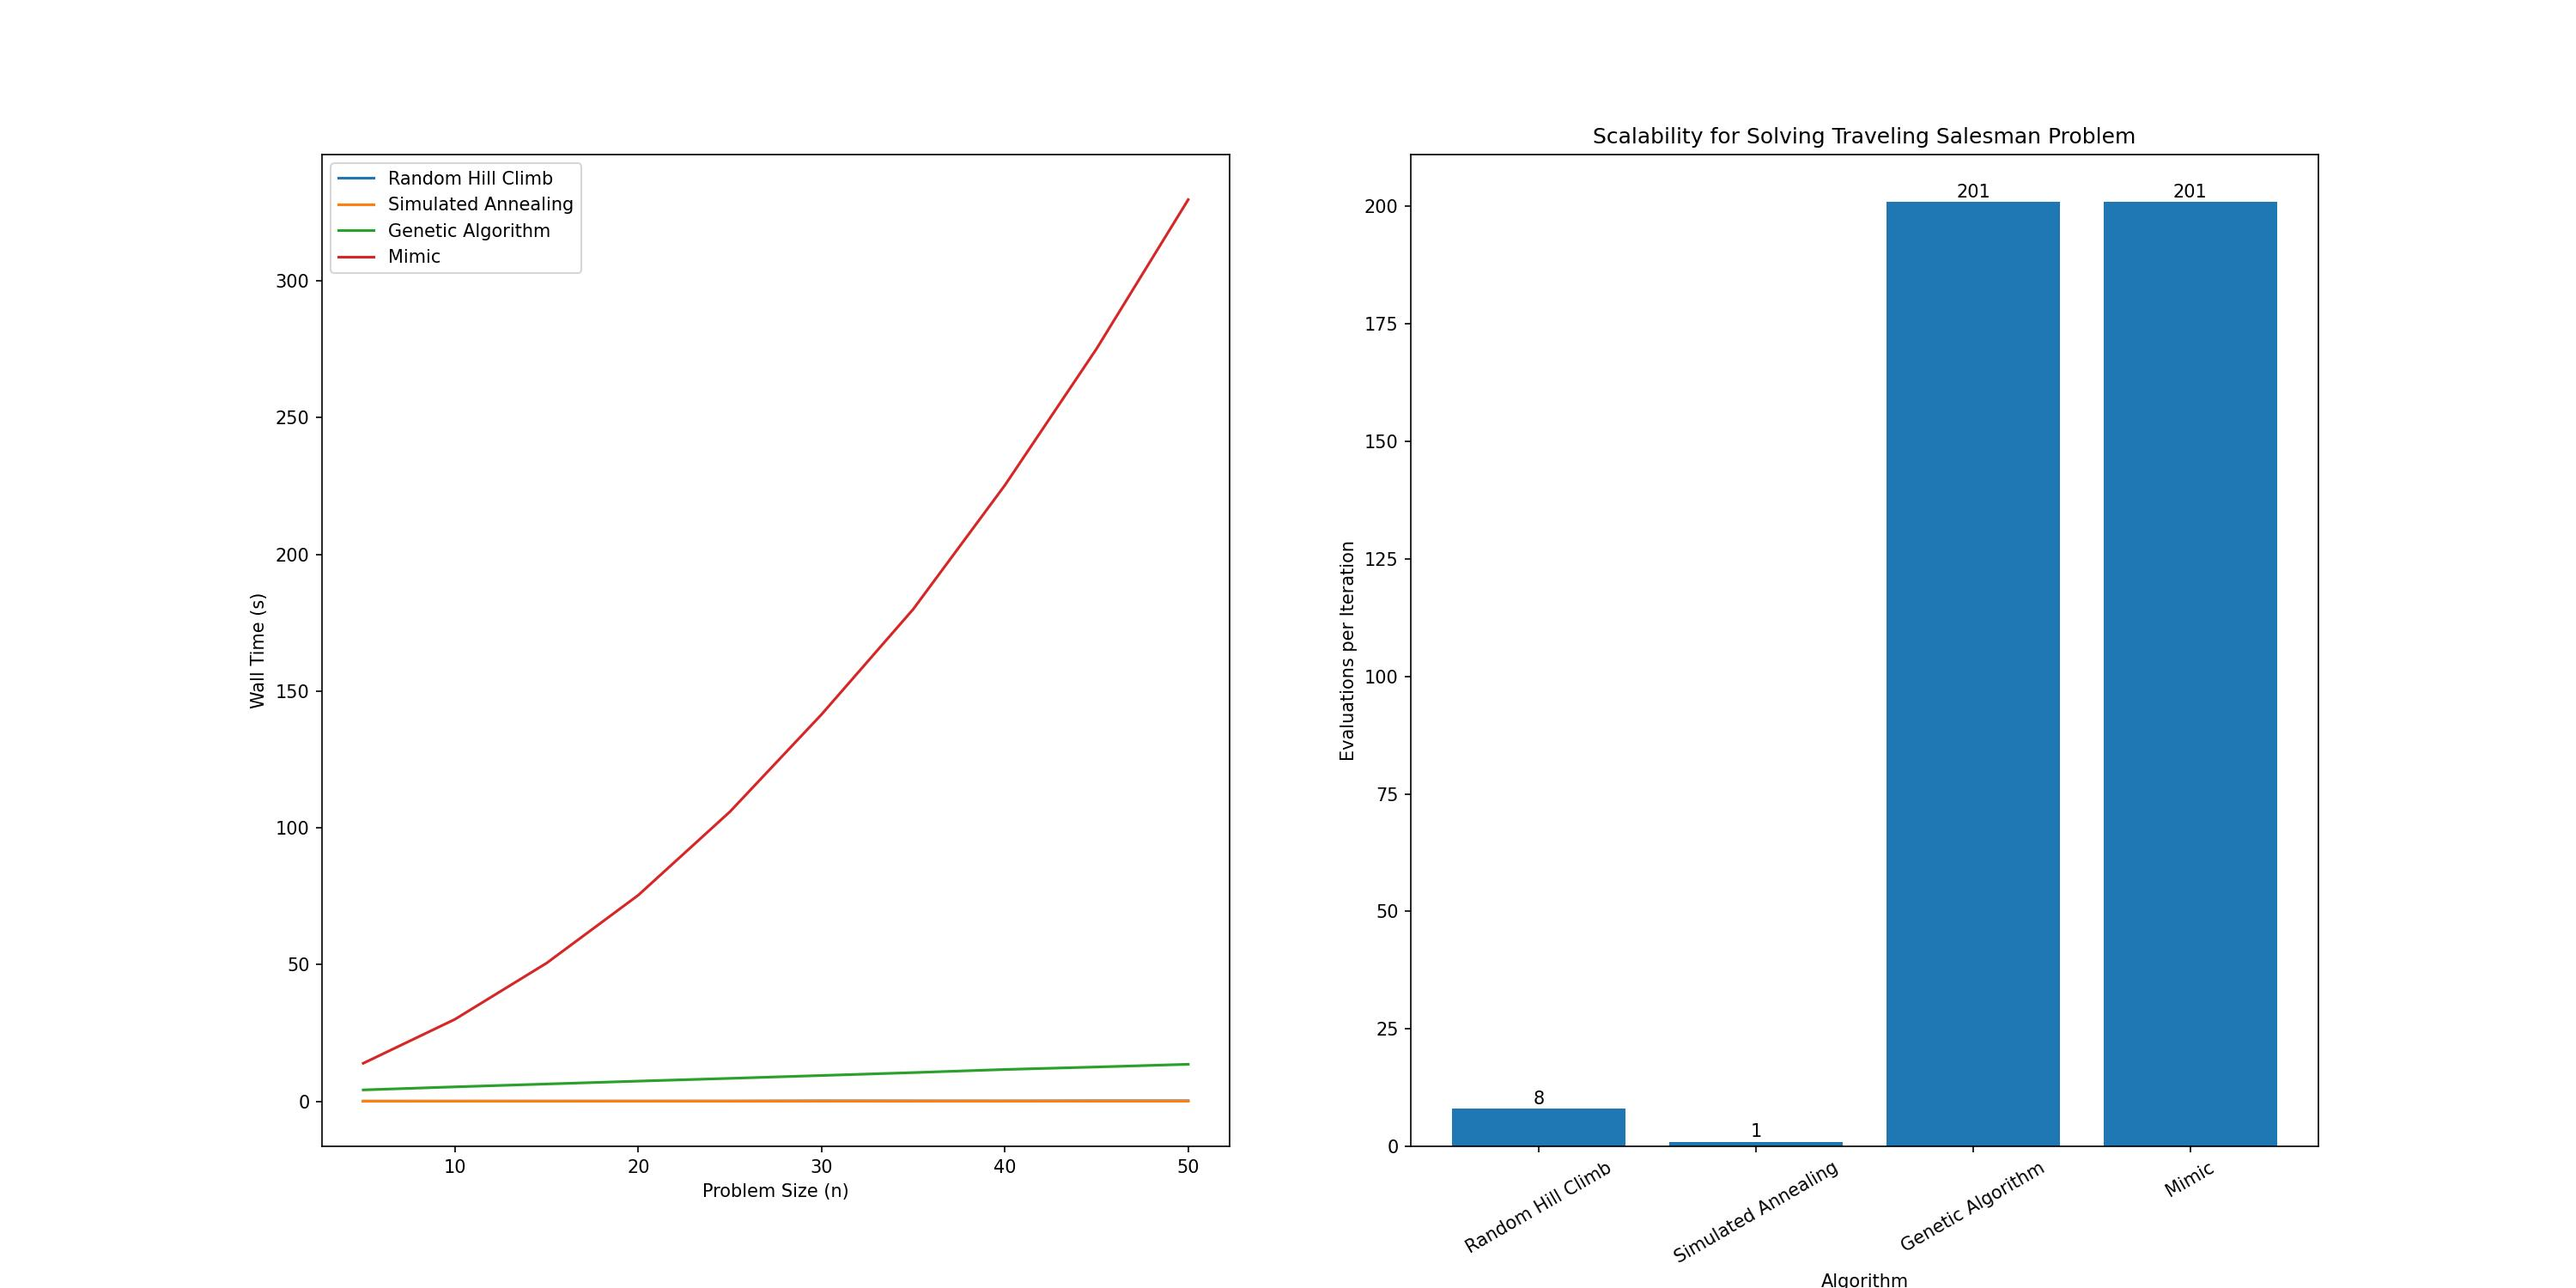
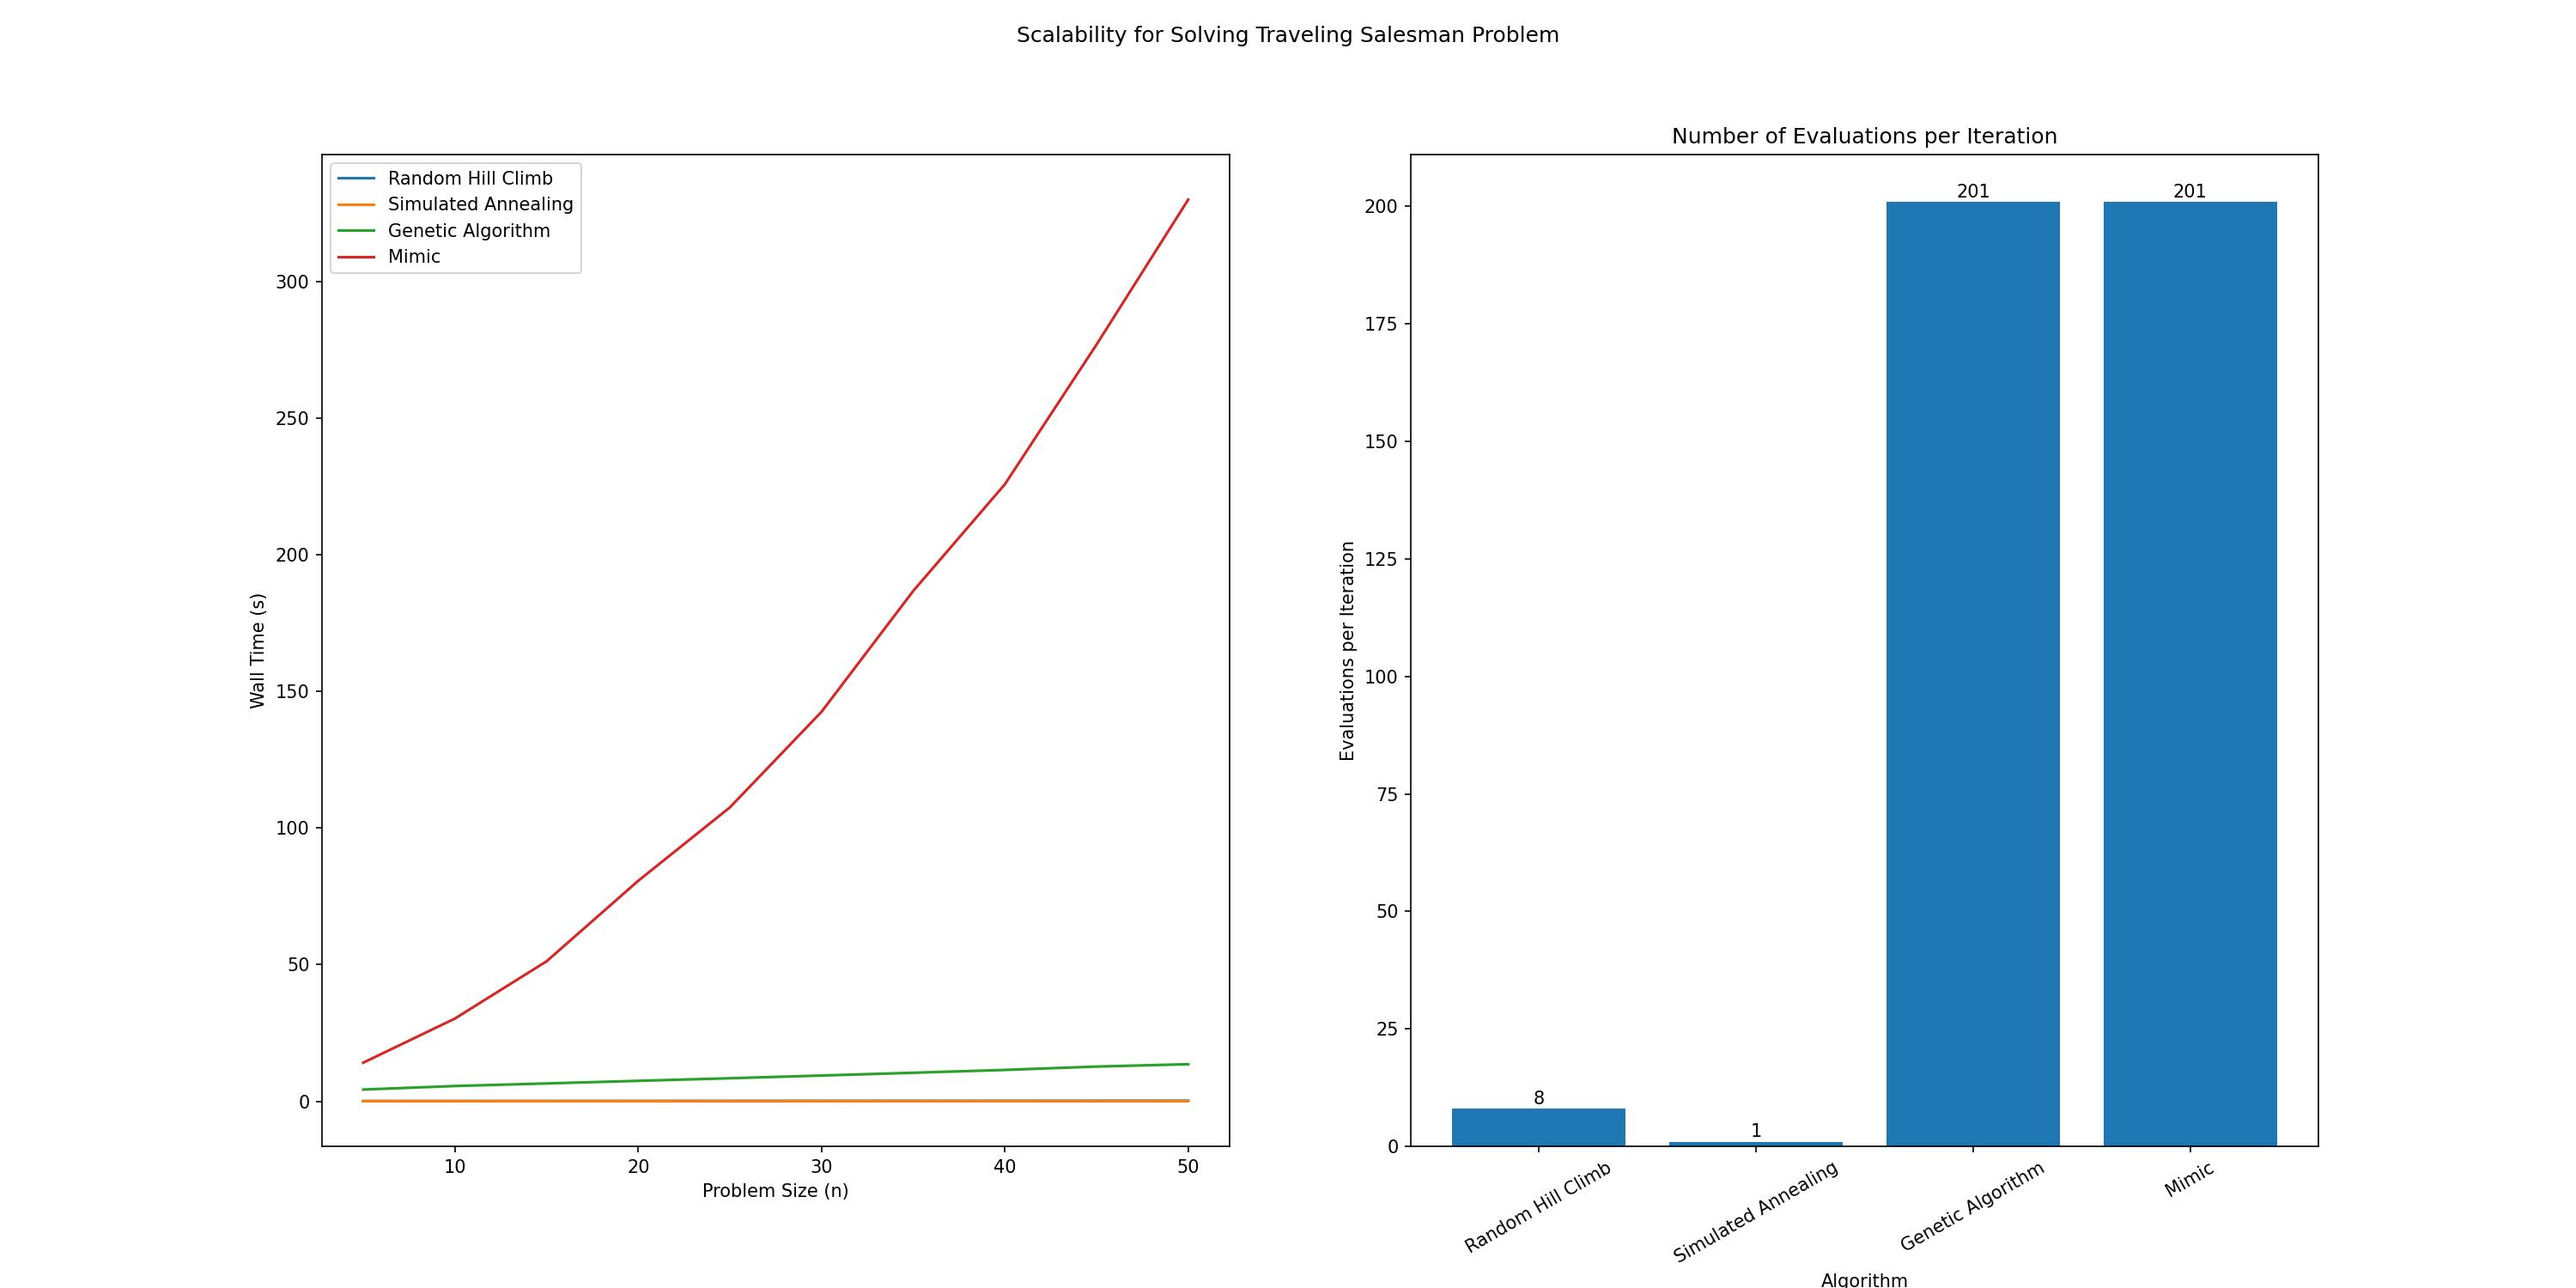
update

diff --git a/randomized_optimization/src/visualization/visualize.py b/randomized_optimization/src/visualization/visualize.py
@@ -53,7 +53,7 @@ def plot_discrete_problem_evals_per_iter_chart(evals_per_iter_map, axes):
     # Create names on the axis and set title
     axes.set_xlabel("Algorithm")
     axes.set_ylabel("Evaluations per Iteration")
-    axes.tick_params(axis="x", rotation=30)
+    axes.tick_params(axis="x", rotation=25)
     axes.bar_label(bars, padding=0.5)
     axes.set_title("Number of Evaluations per Iteration")
 
@@ -92,7 +92,7 @@ def plot_neural_network_walltime_chart(walltime_map, axes):
     # Create names on the axis and set title
     axes.set_xlabel("Algorithm")
     axes.set_ylabel("Wall Time (s)")
-    axes.tick_params(axis="x", rotation=30)
+    axes.tick_params(axis="x", rotation=25)
     axes.bar_label(bars, padding=0.5)
     axes.set_title("Wall Time")
 
@@ -123,7 +123,7 @@ def plot_neural_network_accuracy_chart(
     plt.xticks(X_axis, algorithms)
     axes.set_xlabel("Algorithm")
     axes.set_ylabel("Accuracy")
-    axes.tick_params(axis="x", rotation=30)
+    axes.tick_params(axis="x", rotation=25)
     axes.bar_label(bars1, padding=0.5)
     axes.bar_label(bars2, padding=0.5)
     axes.set_title("Accuracy of Train and Test")

diff --git a/randomized_optimization/src/main.py b/randomized_optimization/src/main.py
@@ -68,18 +68,18 @@ def discrete_problem_analysis(problem_name):
             fitness_curve[-1, 1] / len(fitness_curve[:, 1])
         )
 
-    # plot the fitness scores
+    # plot the fitness scores with different hyperparameters
     _, axes = plt.subplots(2, 2, figsize=(20, 20))
     plot_discrete_problem_fitness_curves(fitness_score_map, axes)  # type: ignore
     plt.suptitle(f"Fitness Curves for Solving {problem_name}", fontsize=20)
     plt.tight_layout(rect=[0, 0.01, 1, 0.99])
     plt.savefig(f"./reports/figures/{problem_name}_fitness_curves.jpg", dpi=150)
 
-    # plot the wall time the walltime bar chart
+    # plot the scalability charts
     _, (ax1, ax2) = plt.subplots(1, 2, figsize=(20, 10))
     plot_discrete_problem_scalability(walltime_map, ax1)
     plot_discrete_problem_evals_per_iter_chart(evals_per_iter_map, ax2)
-    plt.suptitle(f"Scalability for Solving {problem_name}")
+    plt.suptitle(f"Scalability for Solving {problem_name}", fontsize=20)
     plt.savefig(f"./reports/figures/{problem_name}_scalability.jpg", dpi=150)
 
 
